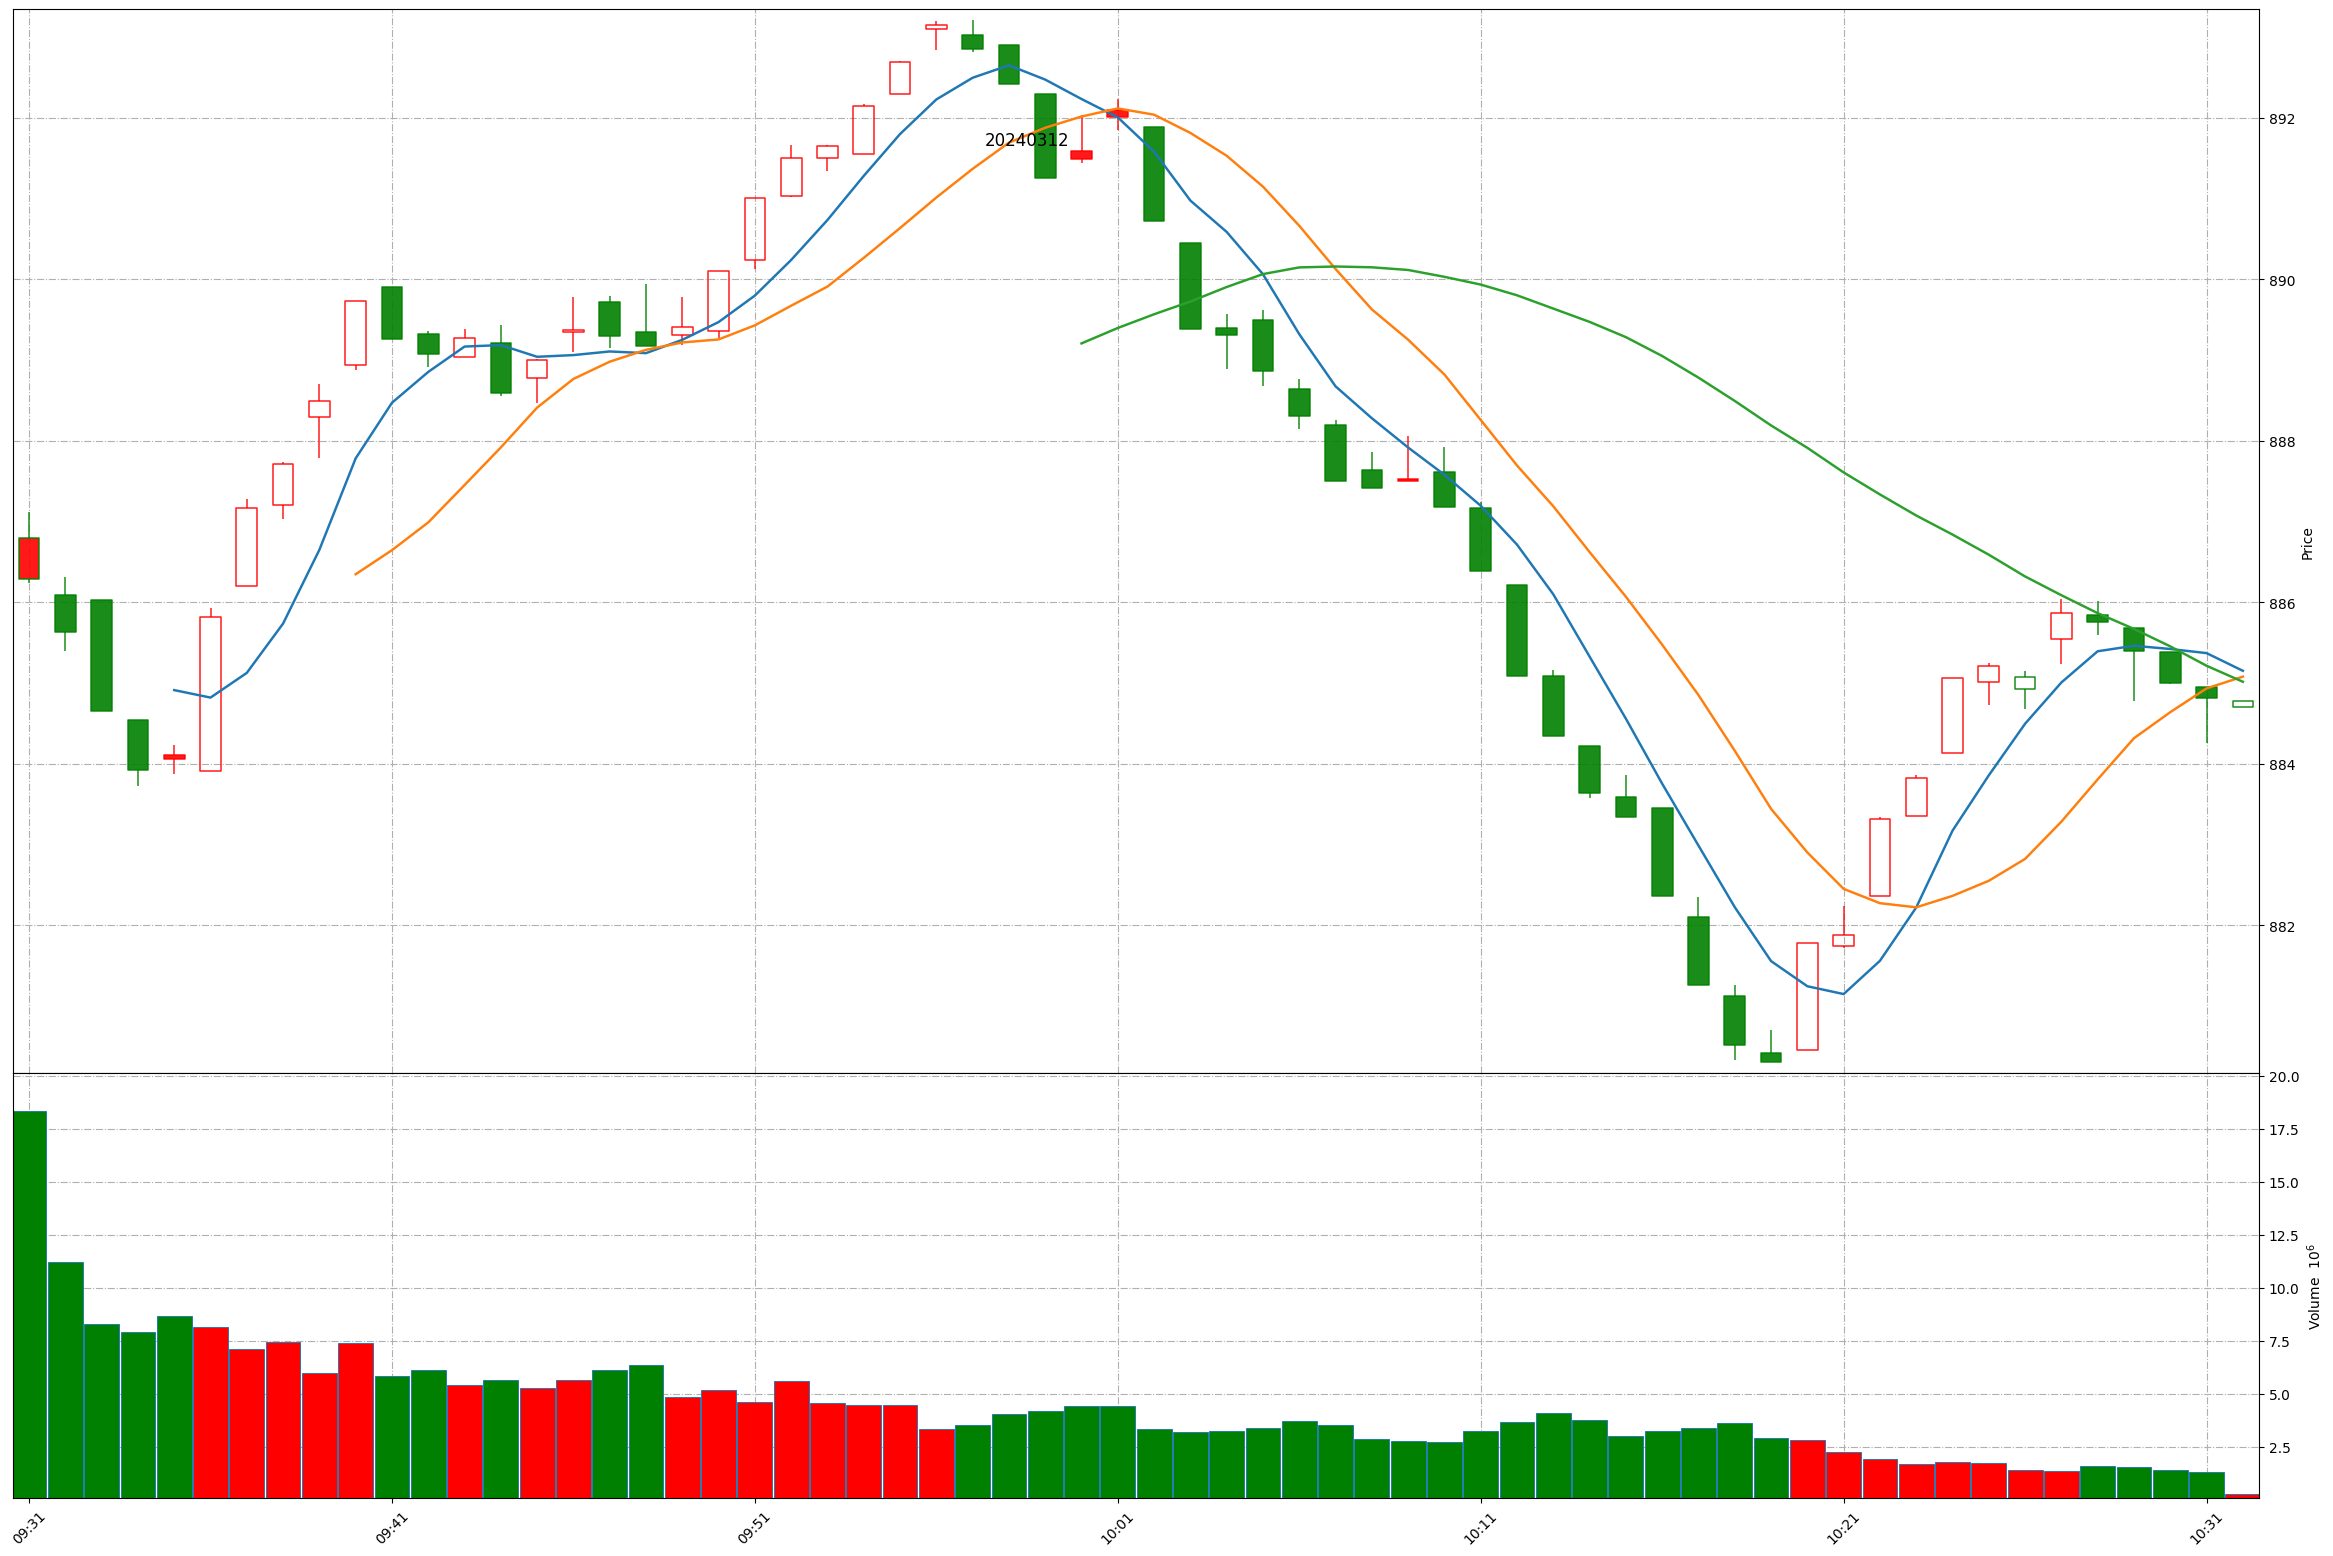
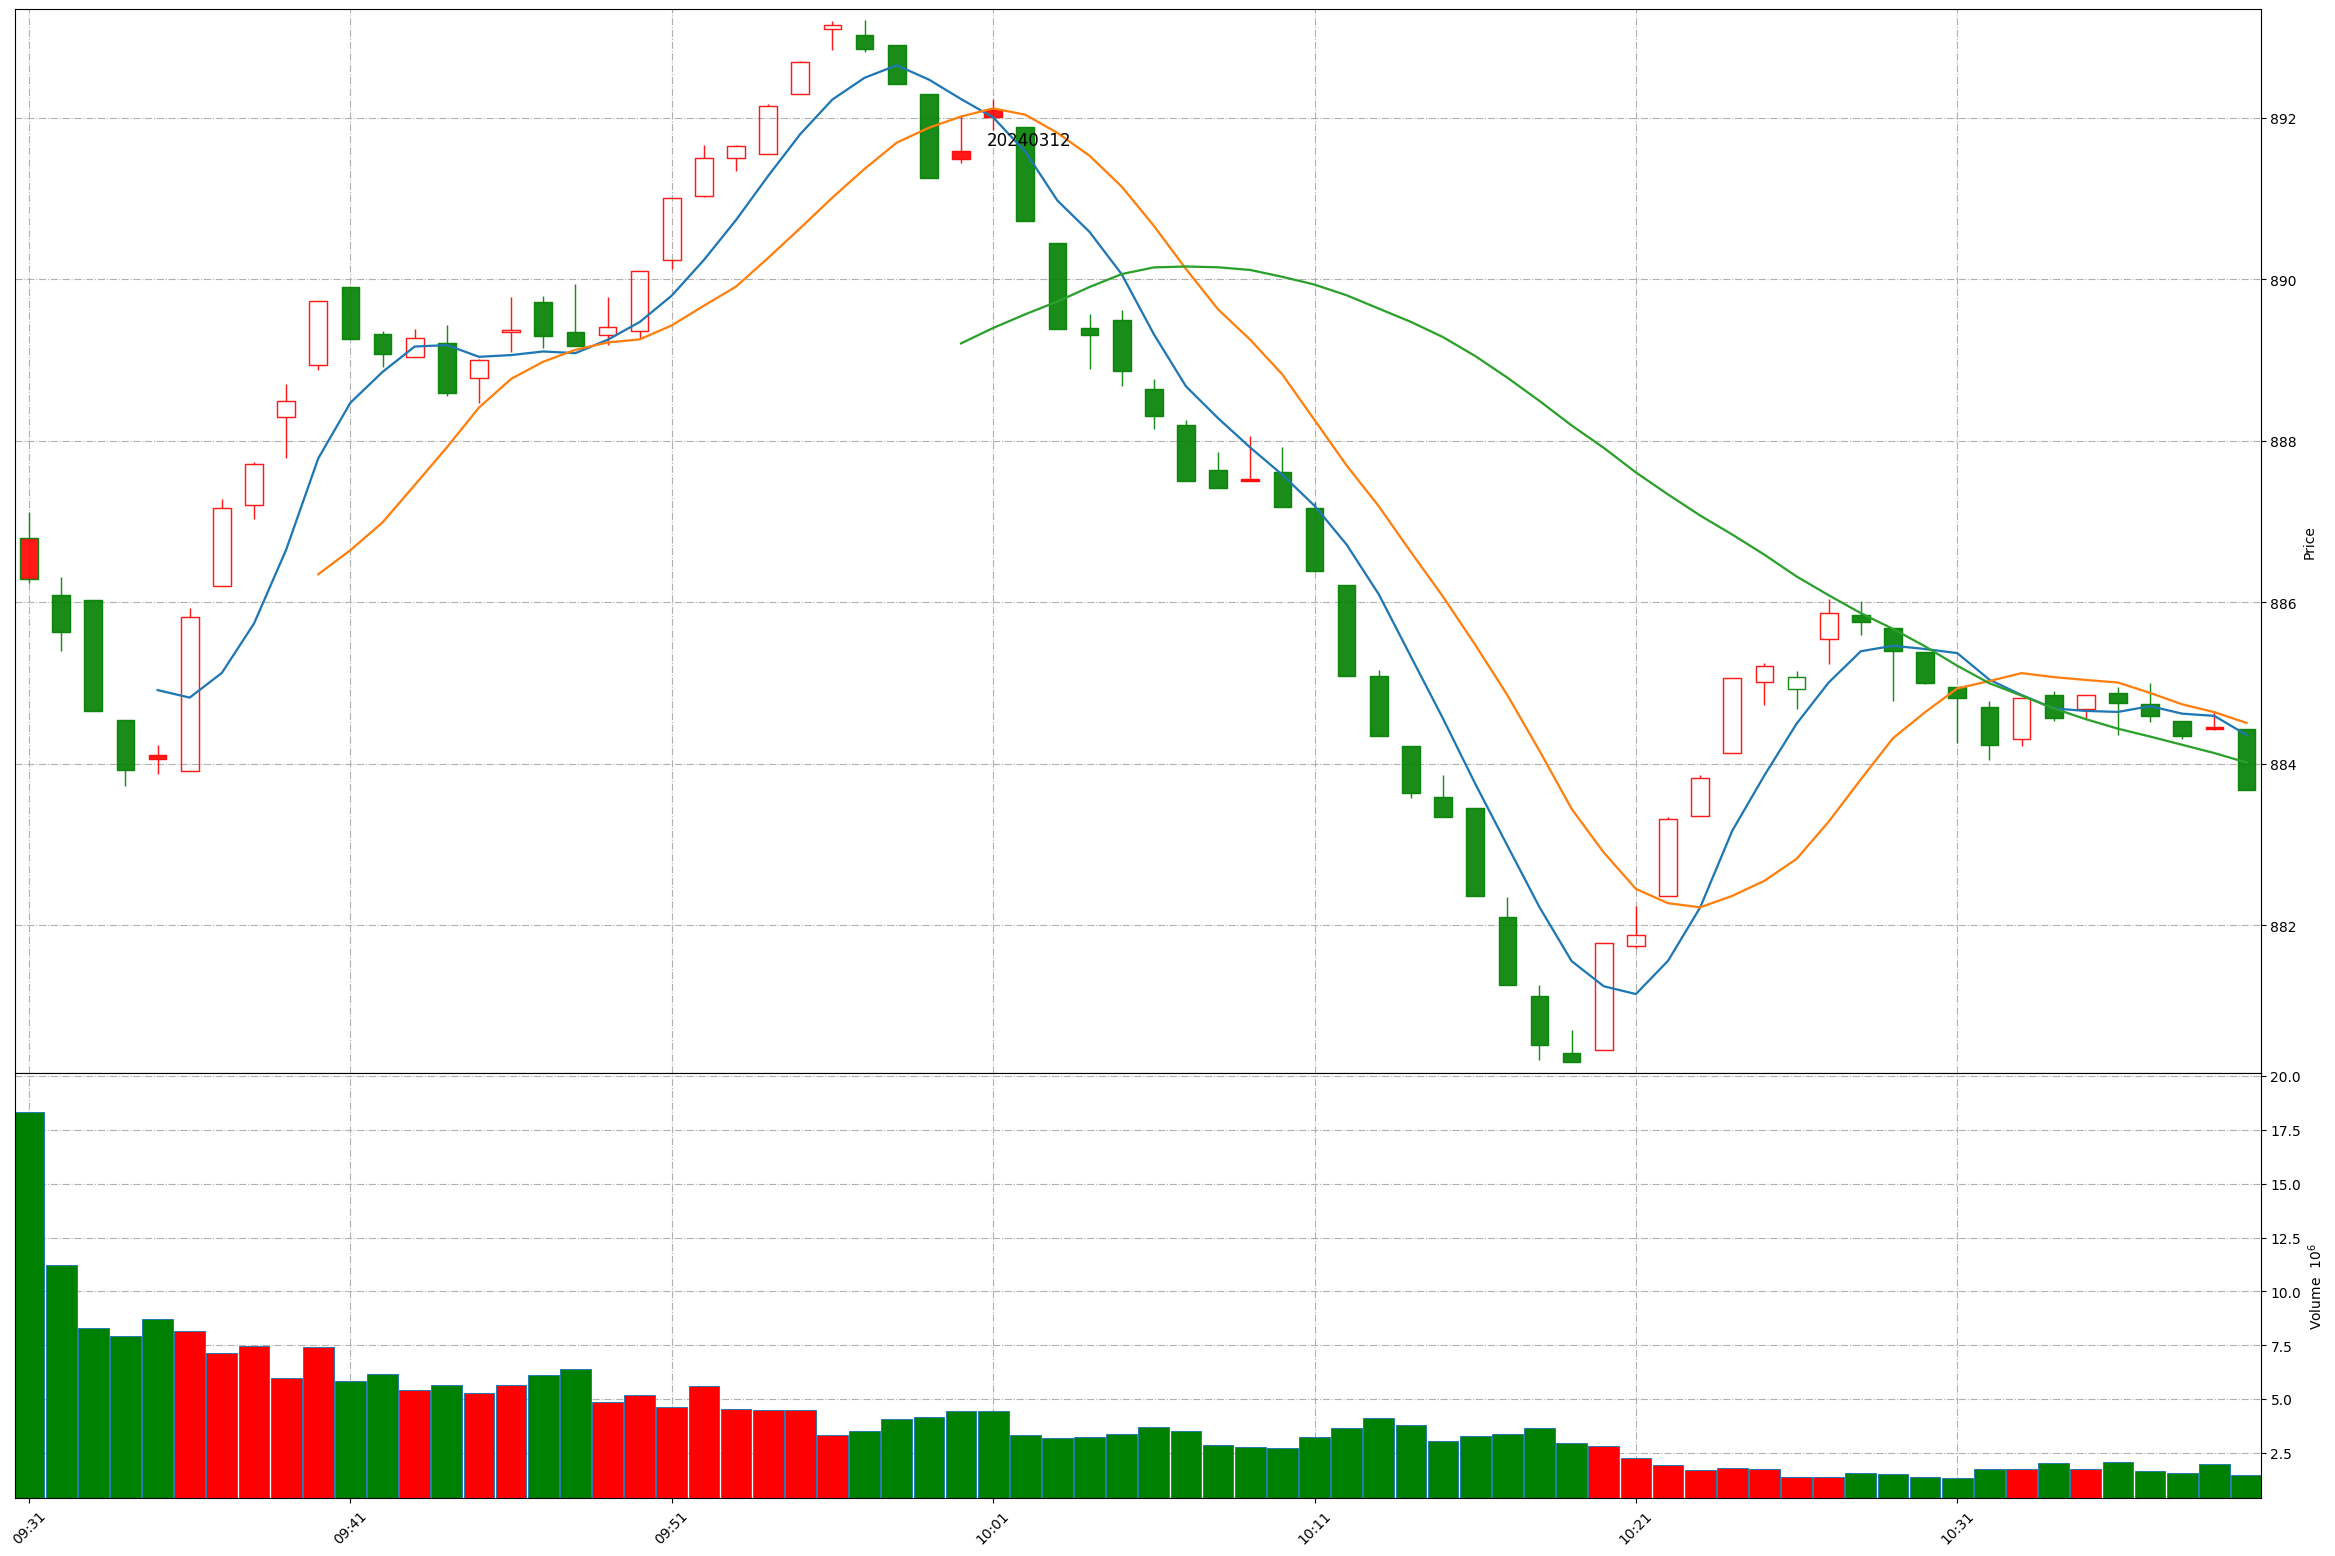
Github action update at 2024-03-12 10:40:01.

diff --git a/README.md b/README.md
@@ -1,11 +1,11 @@
 
 # Daily-A-share-market-quotes 每日 A 股指数（5min 更新）- 20240312
 
-### 上证指数 20240312 10:31
+### 上证指数 20240312 10:40
 ![](./fig/2024/3/20240312-sh000001.png)
 
-### 深证成指 20240312 10:31
+### 深证成指 20240312 10:40
 ![](./fig/2024/3/20240312-sz399001.png)
 
-### 北证50 20240312 10:31
+### 北证50 20240312 10:40
 ![](./fig/2024/3/20240312-bj899050.png)
